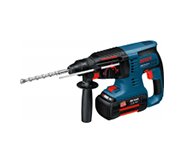
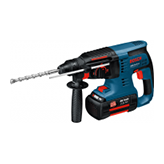
Правки PixelPerfect для страницы catalog.html

Changed region(s): [[0.061, 0.2439, 0.9451, 0.7622]]

diff --git a/catalog.html b/catalog.html
@@ -5,7 +5,7 @@
   <meta charset="utf-8">
   <title>HTML Academy: Техномарт</title>
   <link href="css/normalize.css" rel="stylesheet">
-  <link href="css/style.min.css" rel="stylesheet">
+  <link href="css/style.css" rel="stylesheet">
   <link rel="icon" href="favicon.ico">
   <link rel="icon" href="img/favicon/favicon.svg">
   <link rel="apple-touch-icon" href="img/favicon/favicon-180.png">
@@ -285,7 +285,7 @@
           <div class="good-card catalog__good-card">
             <div class="good-card__main-info">
               <p class="good-card__image">
-                <img src="img/model-2.png" alt="Перфоратор BOSCH BFG 6000" width="184" height="164">
+                <img src="img/model-2.png" alt="Перфоратор BOSCH BFG 6000" width="164" height="164">
               </p>
               <h4 class="good-card__title">Перфоратор BOSCH BFG 6000</h4>
               <div class="good-card__old-price">
@@ -305,7 +305,7 @@
           <div class="good-card catalog__good-card">
             <div class="good-card__main-info">
               <p class="good-card__image">
-                <img src="img/model-2.png" alt="Перфоратор BOSCH BFG 6000" width="184" height="164">
+                <img src="img/model-2.png" alt="Перфоратор BOSCH BFG 6000" width="164" height="164">
               </p>
               <h4 class="good-card__title">Перфоратор BOSCH BFG 6000</h4>
               <div class="good-card__old-price">
@@ -325,7 +325,7 @@
           <div class="good-card catalog__good-card">
             <div class="good-card__main-info">
               <p class="good-card__image">
-                <img src="img/model-2.png" alt="Перфоратор BOSCH BFG 6000" width="184" height="164">
+                <img src="img/model-2.png" alt="Перфоратор BOSCH BFG 6000" width="164" height="164">
               </p>
               <h4 class="good-card__title">Перфоратор BOSCH BFG 6000</h4>
               <div class="good-card__old-price">
@@ -346,7 +346,7 @@
           <div class="good-card catalog__good-card">
             <div class="good-card__main-info">
               <p class="good-card__image">
-                <img src="img/model-3.png" alt="Перфоратор BOSCH BFG 3000" width="184" height="164">
+                <img src="img/model-3.png" alt="Перфоратор BOSCH BFG 3000" width="164" height="164">
               </p>
               <h4 class="good-card__title">Перфоратор BOSCH BFG 3000</h4>
               <div class="good-card__old-price">
@@ -367,7 +367,7 @@
           <div class="good-card catalog__good-card">
             <div class="good-card__main-info">
               <p class="good-card__image">
-                <img src="img/model-2.png" alt="Перфоратор BOSCH BFG 6000" width="184" height="164">
+                <img src="img/model-2.png" alt="Перфоратор BOSCH BFG 6000" width="164" height="164">
               </p>
               <h4 class="good-card__title">Перфоратор BOSCH BFG 6000</h4>
               <div class="good-card__old-price">
@@ -387,7 +387,7 @@
           <div class="good-card catalog__good-card">
             <div class="good-card__main-info">
               <p class="good-card__image">
-                <img src="img/model-3.png" alt="Перфоратор BOSCH BFG 2000" width="184" height="164">
+                <img src="img/model-3.png" alt="Перфоратор BOSCH BFG 2000" width="164" height="164">
               </p>
               <h4 class="good-card__title">Перфоратор BOSCH BFG 2000</h4>
               <div class="good-card__old-price">
@@ -408,7 +408,7 @@
           <div class="good-card catalog__good-card">
             <div class="good-card__main-info">
               <p class="good-card__image">
-                <img src="img/model-3.png" alt="Перфоратор BOSCH BFG 3000" width="184" height="164">
+                <img src="img/model-3.png" alt="Перфоратор BOSCH BFG 3000" width="164" height="164">
               </p>
               <h4 class="good-card__title">Перфоратор BOSCH BFG 3000</h4>
               <div class="good-card__old-price">
@@ -429,7 +429,7 @@
           <div class="good-card catalog__good-card">
             <div class="good-card__main-info">
               <p class="good-card__image">
-                <img src="img/model-2.png" alt="Перфоратор BOSCH BFG 6000" width="184" height="164">
+                <img src="img/model-2.png" alt="Перфоратор BOSCH BFG 6000" width="164" height="164">
               </p>
               <h4 class="good-card__title">Перфоратор BOSCH BFG 6000</h4>
               <div class="good-card__old-price">
@@ -449,7 +449,7 @@
           <div class="good-card catalog__good-card">
             <div class="good-card__main-info">
               <p class="good-card__image">
-                <img src="img/model-3.png" alt="Перфоратор BOSCH BFG 2000" width="184" height="164">
+                <img src="img/model-3.png" alt="Перфоратор BOSCH BFG 2000" width="164" height="164">
               </p>
               <h4 class="good-card__title">Перфоратор BOSCH BFG 2000</h4>
               <div class="good-card__old-price"></div>
@@ -501,7 +501,7 @@
   <div class="page-catalog__container_full-screen">
     <section class="good-description page-catalog__category-description container">
       <h2 class="good-description__title">Пара слов о перфораторах</h2>
-      <p class="good-description__text">Перфоратор — универсальный строительный инструмент. Предназначен для
+      <p class="good-description__text">Перфоратор &ndash; универсальный строительный инструмент. Предназначен для
         сверления и долбления отверстий в кирпиче, бетоне и камне.</p>
       <p class="good-description__text">Существуют электромеханические и
         пневматические перфораторы. Современные модели могут выполнять функции дрели, шуруповерта и отбойного

diff --git a/css/style.css b/css/style.css
@@ -151,7 +151,7 @@ img {
   grid-template-columns: 220px 1fr;
   align-content: start;
   margin-top: 16px;
-  margin-bottom: 60px;
+  margin-bottom: 58px;
 }
 
 .page-catalog__container_full-screen {
@@ -187,7 +187,7 @@ img {
 
 .main-header__panel-container {
   display: grid;
-  grid-template-columns: 220px 271px 150px 150px 150px;
+  grid-template-columns: 220px 271px 164px 136px 150px;
   overflow: visible;
 }
 
@@ -268,7 +268,7 @@ img {
 
 .main-header__cart-link {
   display: block;
-  padding: 9px 24px;
+  padding: 9px 12px;
 }
 
 .main-header__bookmarks-link:hover .main-header__bookmarks-icon,
@@ -301,10 +301,10 @@ img {
   justify-self: end;
 }
 
-.main-header__cart-link_filled {
-  box-sizing: content-box;
-  background-color: var(--basic-red);
-}
+/*.main-header__cart-link_filled {*/
+/*  box-sizing: content-box;*/
+/*  background-color: var(--basic-red);*/
+/*}*/
 
 .main-header__bookmarks-icon,
 .main-header__cart-icon {
@@ -314,7 +314,8 @@ img {
 }
 
 .main-header__cart-link_full {
-  padding: 9px 20px;
+  background-color: var(--basic-red);
+  padding: 9px 0 9px 13px;
 }
 
 .main-header__cart-link_full:hover {
@@ -879,7 +880,7 @@ img {
 
 .good-card__old-price {
   margin-bottom: 9px;
-  min-height: 23px;
+  min-height: 24px;
 }
 
 .good-card__old-price-value {
@@ -949,7 +950,7 @@ img {
   justify-content: center;
   position: absolute;
   left: 50%;
-  top: 34px;
+  top: 37px;
   transform: translateX(-50%);
 }
 
@@ -967,7 +968,7 @@ img {
   display: flex;
   justify-content: center;
 
-  margin-bottom: 10px;
+  margin-bottom: 9px;
   padding-top: 10px;
   padding-bottom: 12px;
   position: relative;
@@ -1185,7 +1186,7 @@ img {
   content: url(../img/guarantee-layer.png);
   position: absolute;
   overflow: hidden;
-  right: 0;
+  right: -7px;
   height: 254px;
 }
 
@@ -1193,7 +1194,7 @@ img {
   content: url(../img/credit-layer.png);
   position: absolute;
   overflow: hidden;
-  right: 0;
+  right: -10px;
   height: 255px;
 }
 
@@ -2057,11 +2058,11 @@ img {
 }
 
 .filter-section__price {
-  margin-top: 12px;
+  margin-top: 15px;
 }
 
 .filter-section__companies {
-  margin-top: 18px;
+  margin-top: 16px;
 }
 
 .filter-section__battery {
@@ -2106,8 +2107,8 @@ img {
 }
 
 .filter-section__battery-list {
-  margin: 26px 0 38px;
-  padding-left: 40px;
+  margin: 23px 0 38px;
+  padding-left: 39px;
 }
 
 .filter-section__battery-item {
@@ -2138,14 +2139,17 @@ img {
 
 .page-catalog__sort-link {
   font-family: "PT Sans", "Arial", sans-serif;
+  text-decoration: none;
   color: var(--basic-black);
   opacity: 0.3;
-  text-decoration-color: var(--basic-red);
+  border-bottom: 1px dotted var(--basic-red);
+  /*text-decoration-color: var(--basic-red);*/
 }
 
 .page-catalog__sort-link:hover {
   color: var(--basic-black);
   opacity: 1;
+  border-bottom: 1px solid var(--basic-red);
 }
 
 .page-catalog__sort-link--active {
@@ -2192,7 +2196,7 @@ img {
   gap: 16px;
 
   list-style: none;
-  margin: 20px 0 43px 0;
+  margin: 20px 0 47px 0;
   padding: 0;
 }
 
@@ -2229,7 +2233,7 @@ img {
   text-transform: uppercase;
   line-height: 18px;
   background-color: var(--basic-white);
-  padding: 10px 31px;
+  padding: 10px 29px;
 }
 
 .catalog__pagination-link:hover,
@@ -2250,7 +2254,7 @@ img {
 }
 
 .page-catalog__category-description {
-  padding: 65px 0 70px;
+  padding: 65px 0 69px;
 }
 
 .good-description__title {

diff --git a/index.html b/index.html
@@ -8,7 +8,7 @@
   <link href="css/style.css" rel="stylesheet">
   <link rel="icon" href="favicon.ico">
   <link rel="icon" href="img/favicon/favicon.svg">
-  <link rel="apple-touch-icon" href="img/favicon/favicon_180.png">
+  <link rel="apple-touch-icon" href="img/favicon/favicon-180.png">
   <link rel="manifest" href="manifest.webmanifest">
 </head>
 
@@ -291,7 +291,7 @@
 
               <div class="good-card__main-info">
                 <p class="good-card__image">
-                  <img src="img/model-3.png" width="184" height="164" alt="Перфоратор BOSCH BFG 3000">
+                  <img src="img/model-3.png" width="164" height="164" alt="Перфоратор BOSCH BFG 3000">
                 </p>
                 <h4 class="good-card__title">Перфоратор BOSCH BFG 3000</h4>
 
@@ -318,7 +318,7 @@
             <div class="popular-goods__card good-card">
               <div class="good-card__main-info">
                 <p class="good-card__image">
-                  <img src="img/model-2.png" width="184" height="164" alt="Перфоратор BOSCH BFG 6000">
+                  <img src="img/model-2.png" width="164" height="164" alt="Перфоратор BOSCH BFG 6000">
                 </p>
                 <h4 class="good-card__title">Перфоратор BOSCH BFG 6000</h4>
                 <div class="good-card__old-price">
@@ -341,7 +341,7 @@
             <div class="popular-goods__card good-card">
               <div class="good-card__main-info">
                 <p class="good-card__image">
-                  <img src="img/model-3.png" width="184" height="164" alt="Перфоратор BOSCH BFG 2000">
+                  <img src="img/model-3.png" width="164" height="164" alt="Перфоратор BOSCH BFG 2000">
                 </p>
                 <h4 class="good-card__title">Перфоратор BOSCH BFG 2000</h4>
                 <div class="good-card__old-price">
